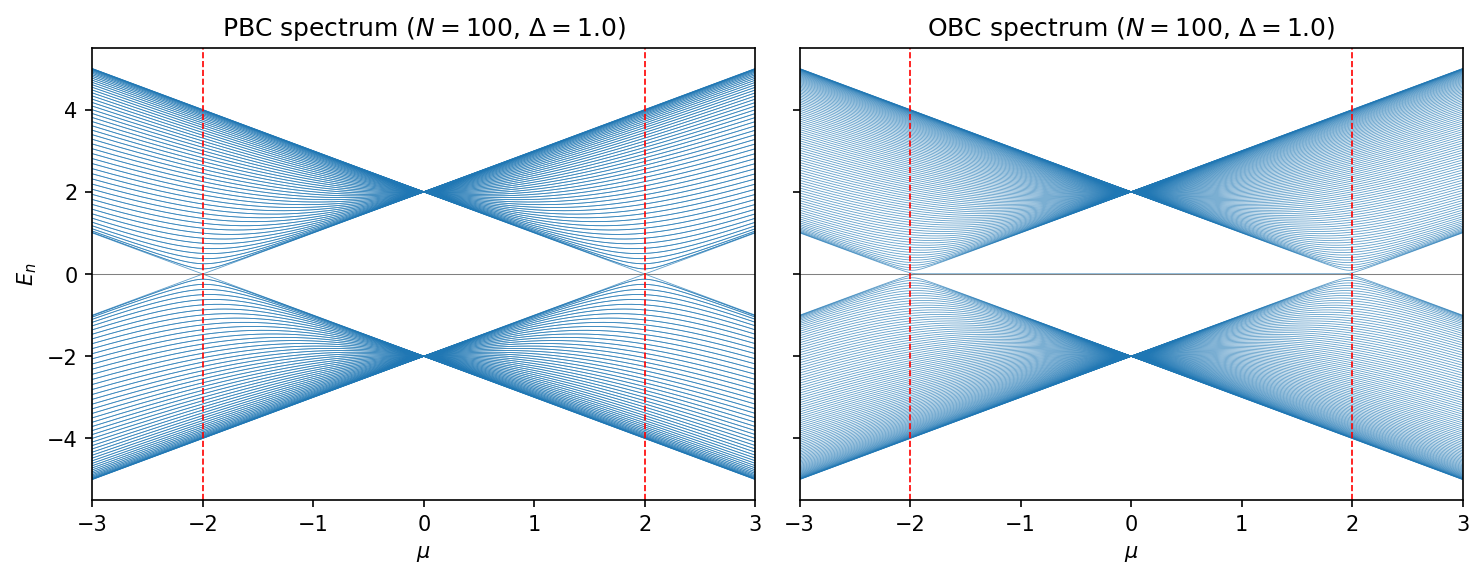
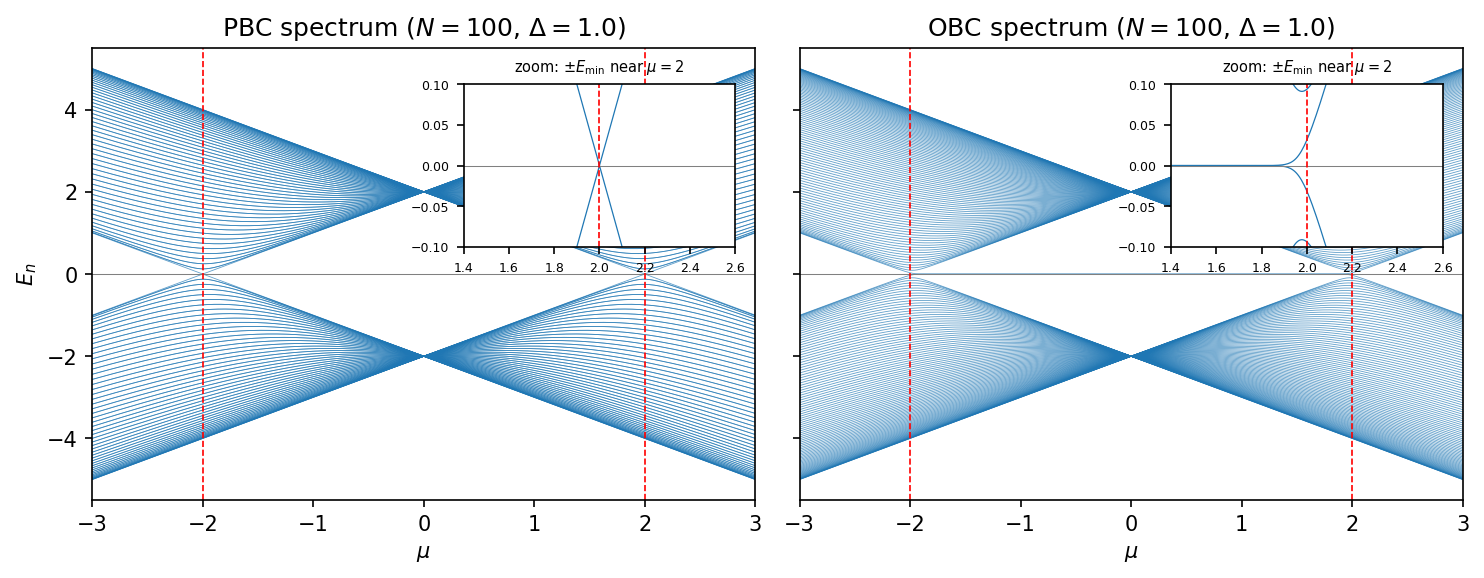
Enhance README and figure generation for PBC vs OBC spectrum
- Updated README.md to include detailed descriptions of the insets in Figure 2, highlighting the behavior of the MZM pair near the gap closing.
- Modified the figure generation script to add an inset that zooms in on the energy spectrum around \(\mu=2\), illustrating the finite-size splitting and the behavior of the OBC and PBC branches.

Changed region(s): [[0.7439, 0.0934, 0.9919, 0.436], [0.279, 0.0934, 0.496, 0.436]]

diff --git a/scripts/generate_figures.py b/scripts/generate_figures.py
@@ -93,6 +93,20 @@ def fig02_pbc_vs_obc_spectrum() -> None:
         ax.set_xlabel(r"$\mu$")
         ax.set_title(rf"{title} spectrum ($N={N}$, $\Delta={delta}$)")
         ax.set_xlim(-3, 3)
+
+        # E_min ~ 1e-15 deep in the topological phase and only ~0.03 at mu=2,
+        # so the +/- pair is unresolvable on the full energy scale.
+        axin = ax.inset_axes((0.56, 0.56, 0.41, 0.36), zorder=10)
+        axin.set_facecolor("white")
+        for n in range(spec.shape[1]):
+            axin.plot(mus, spec[:, n], color="C0", lw=0.6)
+            axin.plot(mus, -spec[:, n], color="C0", lw=0.6)
+        axin.axhline(0, color="gray", lw=0.5)
+        axin.axvline(2, color="r", ls="--", lw=0.8)
+        axin.set_xlim(1.4, 2.6)
+        axin.set_ylim(-0.1, 0.1)
+        axin.tick_params(labelsize=6)
+        axin.set_title(r"zoom: $\pm E_{\min}$ near $\mu=2$", fontsize=7)
     axes[0].set_ylabel(r"$E_n$")
     _save(fig, "fig02_pbc_vs_obc_spectrum.png")
 

diff --git a/README.md b/README.md
@@ -49,7 +49,7 @@ Majorana PBC Bloch bands at \(\mu=0\), \(\Delta=1\), overlaid with the analytic 
 
 ### Figure 2 — PBC vs OBC spectrum across \(\mu\)
 
-Full particle-hole spectrum \(\pm E_n(\mu)\) for \(N=100\), \(\Delta=1\). OBC shows the hybridized MZM pair \(\pm E_{\min}\) near zero for \(|\mu|<2\); PBC does not.
+Full particle-hole spectrum \(\pm E_n(\mu)\) for \(N=100\), \(\Delta=1\). OBC shows the hybridized MZM pair \(\pm E_{\min}\) near zero for \(|\mu|<2\); PBC does not. Insets zoom on \(|E|\le 0.1\) near \(\mu=2\), where the finite-size splitting is resolvable: the OBC pair stays pinned to zero and then peels away, while the PBC branches simply cross zero at the gap closing.
 
 ![Figure 2](figures/fig02_pbc_vs_obc_spectrum.png)
 
